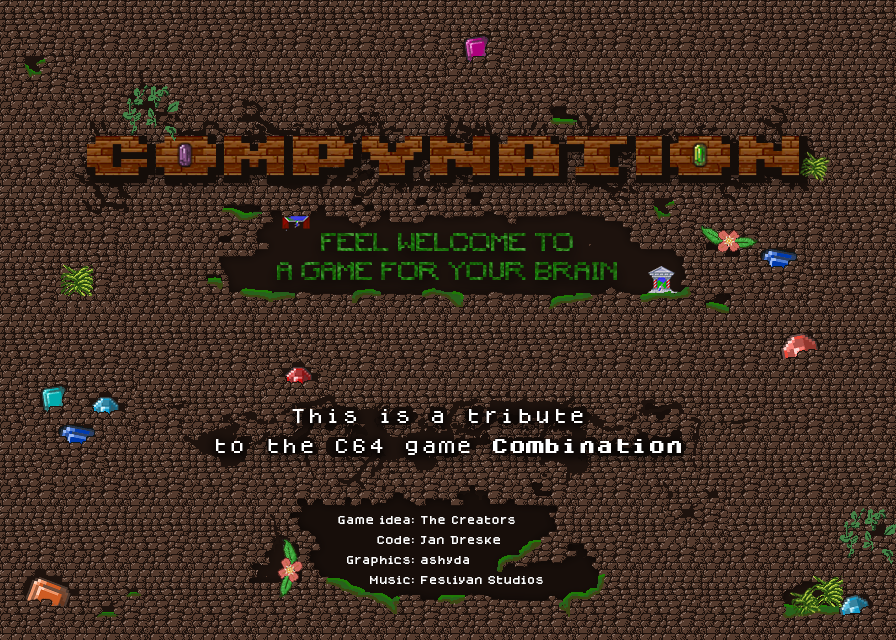
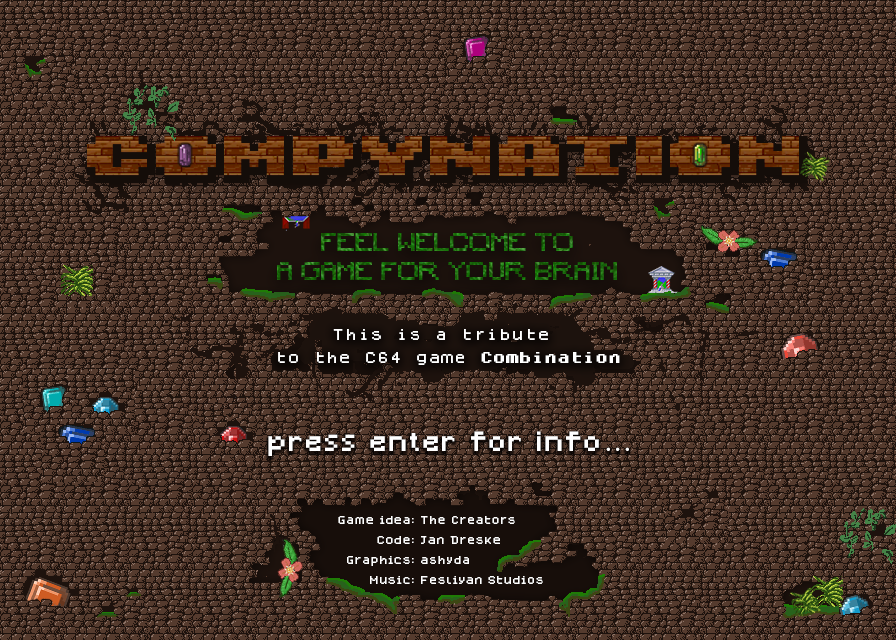
move tests and update tests

Changed region(s): [[0.2188, 0.4688, 0.7812, 0.7812]]

diff --git a/src/ui_manager.py b/src/ui_manager.py
@@ -10,7 +10,6 @@ class UI:
             Initializes the UI, setting the icon, title and correct window size and loads images
             """
         pg.init()
-        self._menu_pics = {}
         self._images = {}
         self._tile_dict = {}
         self._game_menues = {}
@@ -91,6 +90,7 @@ class UI:
         self._images["time"] = load_image(directories.MENU_DIRECTORY, "time.png")
         self._images["random"] = load_image(directories.MENU_DIRECTORY, "random.png")
         self._images["music"] = load_image(directories.MENU_DIRECTORY, "music.png")
+        self._images["menu_marker"] = load_image(directories.MENU_DIRECTORY, "marker.gif")
         self._game_menues[0] = load_image(directories.MENU_DIRECTORY, "game_menu_0.png")
         self._game_menues[1] = load_image(directories.MENU_DIRECTORY, "game_menu_1.png")
         self._game_menues[2] = load_image(directories.MENU_DIRECTORY, "game_menu_2.png")
@@ -122,8 +122,8 @@ class UI:
             self._screen.blit(self._images["random"], POS_RANDOM)
         if self._music:
             self._screen.blit(self._images["music"], POS_MUSIC)
-        #    if self._selected == entry:
-        #        self._screen.blit(self._images["menu_marker"], (posx, posy))
+        if self._selected == 0:
+            self._screen.blit(self._images["menu_marker"], SELECTED_POS_PLAY)
         pg.display.flip()
 
     def draw(self, level):

diff --git a/tests/test_image_init.py b/tests/test_image_init.py
@@ -1,7 +1,8 @@
 import pytest
 import ui_manager
 
-IMAGES = ["info", "logo", "welcome", "game_marker", "menu_marker"]
+IMAGES = ["info", "logo", "welcome", "game_marker", "menu_marker",
+          "placeholder", "sidebar_menu", "lives", "time", "music", "random"]
 
 
 def test_load():
@@ -11,11 +12,9 @@ def test_load():
         assert img in ui._images.keys()
     with pytest.raises(KeyError):
         var = ui._images["does_not_exist"]
-    assert len(ui._menu_pics) == len(ui_manager.MENU_ENTRIES)
-    for img in ui_manager.MENU_ENTRIES.keys():
-        assert img in ui._menu_pics.keys()
+    assert len(ui._game_menues) == 4
     with pytest.raises(KeyError):
-        var = ui._menu_pics[1077]
+        var = ui._game_menues[1077]
     assert len(ui._tile_dict) == ui_manager.MOVE_MAX_TILE + 1 - ui_manager.MOVE_MIN_TILE\
            + ui_manager.BACK_MAX_TILE + 1 - ui_manager.BACK_MIN_TILE
     for tile in range(ui_manager.BACK_MIN_TILE, ui_manager.BACK_MAX_TILE + 1):

diff --git a/src/game_constants.py b/src/game_constants.py
@@ -26,6 +26,7 @@ POS_LIVES = (FIELD_X * BLOCK_SIZE, 372)
 POS_TIME = (FIELD_X * BLOCK_SIZE, 403)
 POS_RANDOM = (FIELD_X * BLOCK_SIZE, 435)
 POS_MUSIC = (FIELD_X * BLOCK_SIZE, 472)
+SELECTED_POS_PLAY = (FIELD_X * BLOCK_SIZE + 20, 65)
 # Tile image values
 MOVE_MIN_TILE = 1
 MOVE_MAX_TILE = 15
@@ -34,7 +35,7 @@ BACK_MIN_TILE = 100
 BACK_MAX_TILE = 117
 DEFAULT_BACKGROUND_PERCENTAGE = 0.7
 # Dictionary for menu entries
-MENU_ENTRIES = {0: "play", 1: "info", 2: "password", 3: "lives", 4: "time", 5: "music", 6: "random", 7: "highscores"}
+MENU_ENTRIES = {0: "play", 1: "password", 2: "highscores", 3: "lives", 4: "time", 5: "random", 6: "music"}
 # User interaction values
 FRAMERATE = 60
 STABILIZING_FRAMERATE = 4

diff --git a/tests/test_level_info.py b/tests/test_level_info.py
@@ -1,7 +1,7 @@
 import pytest
 import level_info
 
-LEVEL_DIRECTORY = "../levels/"
+LEVEL_DIRECTORY = "../src/levels/"
 
 
 def test_load():
@@ -18,16 +18,16 @@ def test_exceptions():
         val = info.next
     with pytest.raises(Exception):
         val = info.password
-    val = info.first
+    val = info.first()
     with pytest.raises(Exception):
-        val = info.first
+        val = info.first()
     with pytest.raises(Exception):
         val = info.by_password("")
 
 
 def test_sequence():
     info = level_info.LevelInfo(LEVEL_DIRECTORY + "list")
-    level = info.first
+    level = info.first()
     assert level == "level_01"
     assert info.index == 1
     assert info.password == ""

diff --git a/src/main.py b/src/main.py
@@ -29,13 +29,11 @@ def main():
                     ui.menu_up()
                 elif event.key == pg.K_DOWN:
                     ui.menu_down()
+                elif event.key == pg.K_RETURN:
+                    ui.flip_info()
                 elif event.key == pg.K_SPACE:
                     choice = ui.selected
-                    if choice == "quit":
-                        running = False
-                    elif choice == "info":
-                        ui.flip_info()
-                    elif choice == "lives":
+                    if choice == "lives":
                         ui.flip_lives()
                     elif choice == "time":
                         ui.flip_time()

diff --git a/tests/test_level.py b/tests/test_level.py
@@ -2,7 +2,7 @@ import pytest
 import numpy
 import level
 
-LEVEL_DIRECTORY = "../levels/"
+LEVEL_DIRECTORY = "../src/levels/"
 
 
 def test_load():
